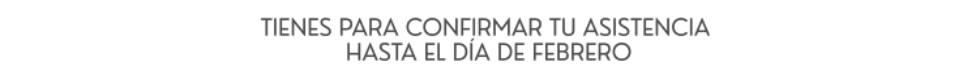
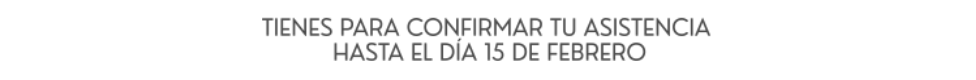
fix: Add new changes

Changed region(s): [[0.2459, 0.225, 0.7377, 0.45], [0.3381, 0.475, 0.6762, 0.775]]

diff --git a/components/guestModal.js b/components/guestModal.js
@@ -146,7 +146,7 @@ body.modal-open{ overflow:hidden; touch-action:none; }
     <div class="gm-content">
       <form id="guest-form" novalidate>
         <h3 style="margin:4px 0 8px 0;">Confirmación de asistencia</h3>
-        <p style="margin:0 0 12px 0;">Por favor ayúdanos a confirmar tu asistencia antes del 10 de febrero.</p>
+        <p style="margin:0 0 12px 0;">Por favor ayúdanos a confirmar tu asistencia antes del 15 de febrero.</p>
 
         <div class="field">
           <label>¿Asistirás?</label>
